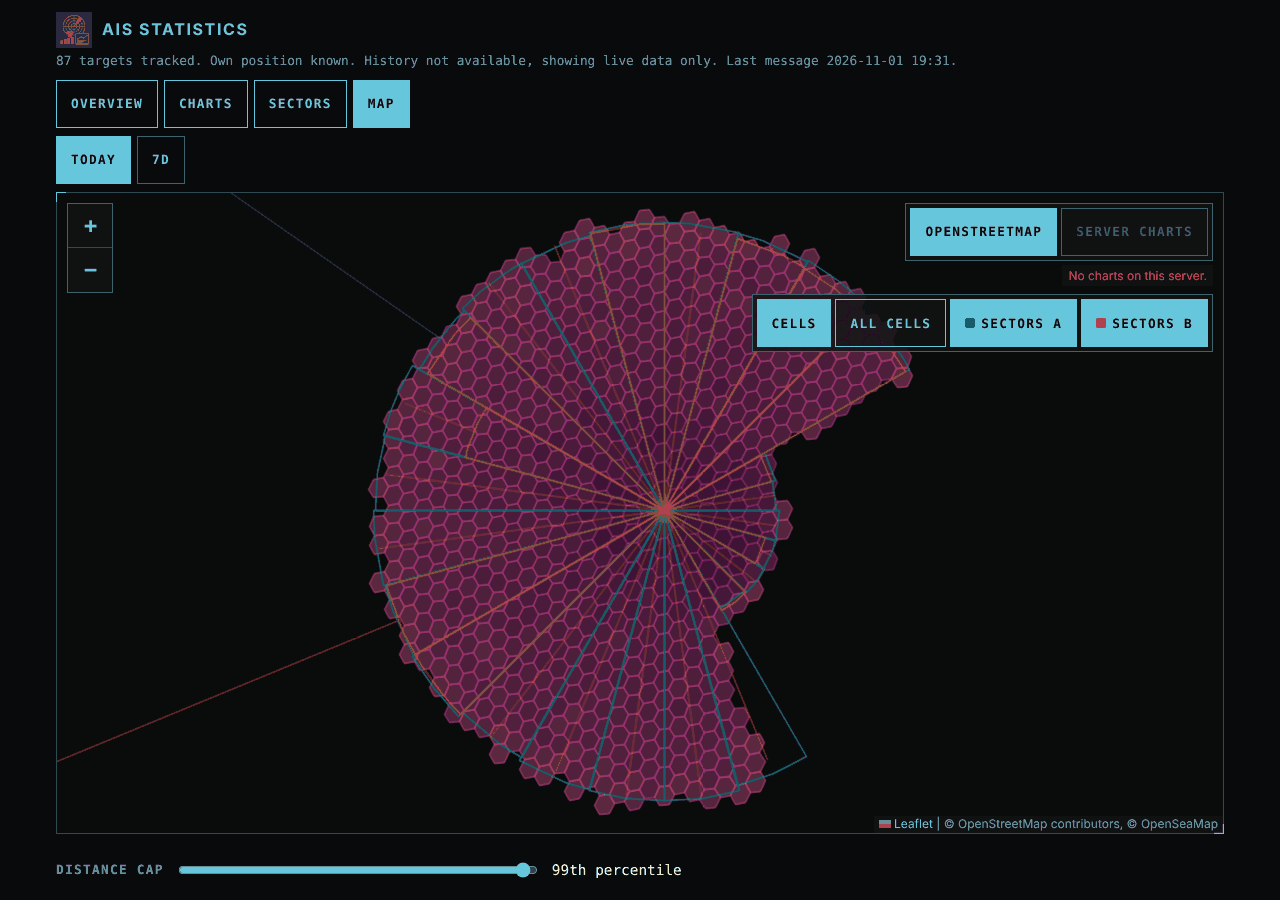
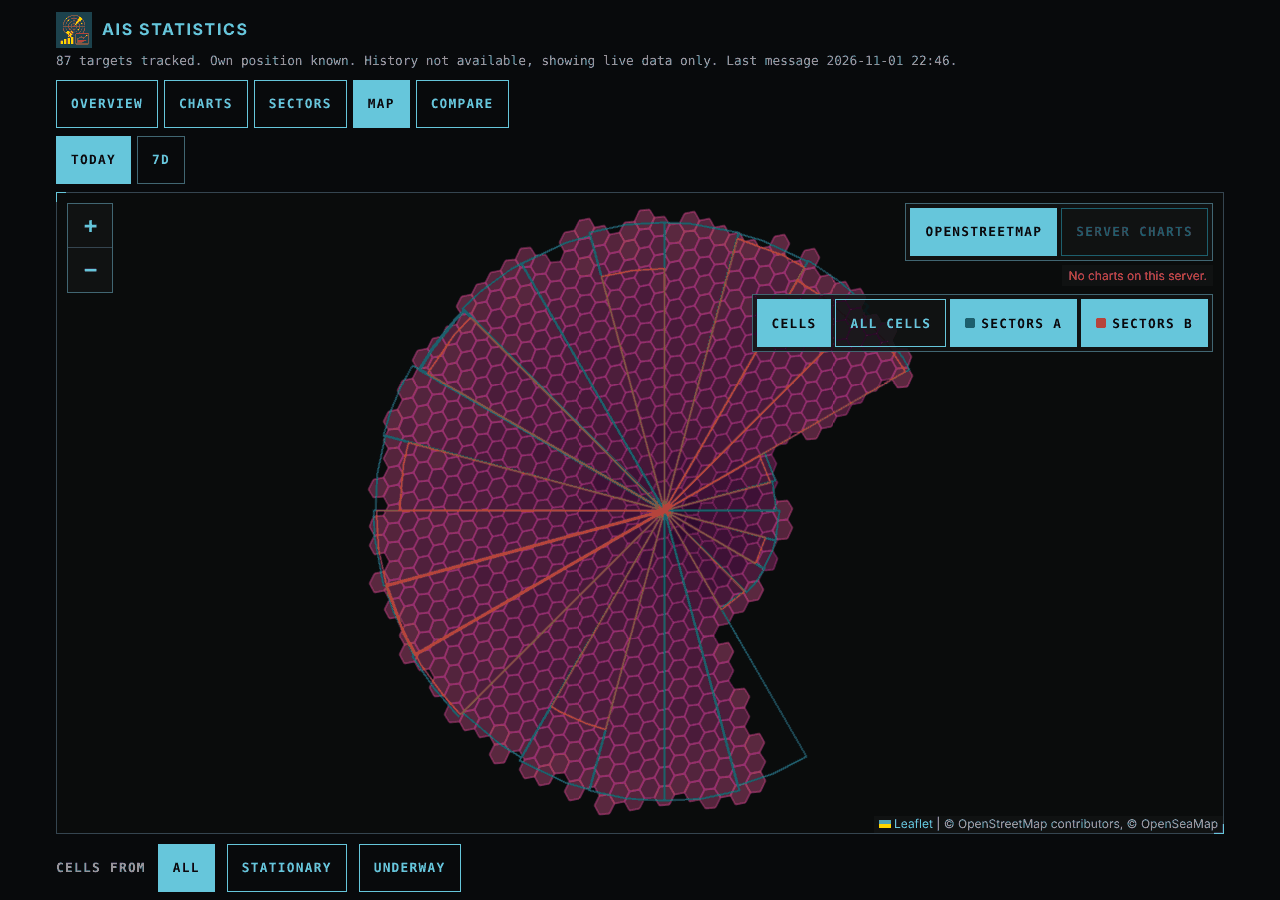
Document the farthest dot and refresh the sectors and map screenshots
SPEC 2.6, 6.3, 7 and 12, ARCHITECTURE 2.10 and 2.11, the README and the
changelog describe the dot and the bolder outline instead of the ticks.
The screenshots come from the synthetic timeline in scripts/screenshots.cjs.

diff --git a/web/static/style.css b/web/static/style.css
@@ -333,33 +333,23 @@ svg.sectors .axis {
 .wedge:hover {
   fill-opacity: 0.9;
 }
-.tick {
-  stroke-width: 1;
-  pointer-events: none;
+.wedge.farthest {
+  stroke: var(--sector);
+  stroke-opacity: 1;
+  stroke-width: 2;
 }
-.tick-dot {
+.farthest-dot {
   pointer-events: none;
   stroke-width: 0;
 }
-.tick.clipped {
-  stroke-dasharray: 3 2;
-}
-.tick.farthest {
-  stroke-width: 2.5;
-}
-/* Beyond the rim: a hollow dot where the tick stops. */
-.tick-dot.clipped {
+/* Beyond the rim: a hollow dot on the rim. */
+.farthest-dot.clipped {
   fill: var(--bg-panel);
   stroke-width: 1.5;
 }
 .dot-hit {
   fill: transparent;
   pointer-events: fill;
-}
-.tick-hit {
-  stroke: transparent;
-  stroke-width: 12;
-  pointer-events: stroke;
 }
 .long-range {
   overflow-x: auto;

diff --git a/SPEC.md b/SPEC.md
@@ -156,11 +156,10 @@ values), counting only hours with at least 20 reports in that sector. The
 sector's report count still includes every hour.
 
 Each hour bucket also keeps the farthest reception per sector and class and
-when it arrived. The sectors view draws it as a thin tick along the
-sector's centre line, from the centre out to a dot at that distance, in
-every sector with a reception, also when the farthest reception is at the
-wedge's edge (chosen by the maintainer). The tick of the chart's farthest
-reception is broader. So rare far receptions such as sporadic E or
+when it arrived. The sectors view outlines the sector holding the chart's
+farthest reception bolder and puts one small dot on its centre line at
+that distance; hovering any wedge shows its own farthest reception and
+time (chosen by the maintainer, replacing a tick per sector). So rare far receptions such as sporadic E or
 tropospheric ducting stay visible without moving the radius. The maximum is untrusted like every maximum (2.3).
 
 ### 2.7 Long-range log
@@ -515,15 +514,16 @@ button:
   plotter fetches with the user's credentials: H3 cell polygons for the last
   7 days (`kind: "cell"`, with `id`, a coverage `intensity` from 0 to 1 and
   the report count), plus the 24 hour sectors of class A and B as wedges
-  from the last known own position (`kind: "sector"`), and a line per
-  sector along its centre bearing from the wedge out to the farthest
-  reception (`kind: "sector-max"`, with `maxM` and its time). Each sector
+  from the last known own position (`kind: "sector"`), and per class one
+  point at the farthest reception, on its sector's centre bearing
+  (`kind: "sector-max"`, with `sector`, `maxM` and its time); that sector's
+  wedge carries `farthest: true`. Each sector
   feature carries its class in `cls` (`a` or `b`). A fill layer colours
   cells by `intensity` on a magenta to purple ramp, which contrasts with
   chart water and land, a line layer outlines each cell in the same ramp,
   another line layer outlines the sectors, teal for class A and orange for
-  class B as on the web app's sectors page, and a thin one draws the
-  maxima in the same class colours.
+  class B as on the web app's sectors page, bolder for the `farthest` one,
+  and a circle layer draws the farthest dots in the same class colours.
 - Live updates need a context that calls `overlay.refresh`, so the manifest
   also declares an optional `background.iframe` page,
   `/signalk-ais-statistics/plotterext/refresh.html` (part of the web app
@@ -559,10 +559,11 @@ A SignalK web app, listed in the admin UI, with:
   the paths; the 1h window shows a note instead. Weather values use the
   path's display unit, otherwise hPa for pressure, °C for temperature and
   percent for ratios.
-- Sectors: the 24-sector bearing view for class A and B (`#/sectors`), with a thin tick
-  per sector from the centre to a dot at its farthest reception, broader
-  for the chart's farthest (hover shows distance and time; a tick beyond
-  the scale stops at the rim, dashed, with a hollow dot), and below it a
+- Sectors: the 24-sector bearing view for class A and B (`#/sectors`), where the
+  sector with the chart's farthest reception is outlined bolder and has a
+  dot at that distance (hover shows distance and time; a dot beyond the
+  scale sits hollow on the rim, and hovering a wedge shows its farthest
+  reception too), and below it a
   table of the farthest receptions from the long-range log (2.7): time,
   distance, bearing, class, vessel name and MMSI, its position and the own
   position. Below that, the fastest vessels and the implausible jumps
@@ -820,7 +821,8 @@ help of `max` (6.2). Verified across a plugin restart on the test server.
 - **Far receptions as a tick and a log, not in the radius (chosen by the
   maintainer).** The 20 report minimum keeps rare far receptions out of
   the radius, but they can be real propagation worth seeing. The sectors
-  view draws the sector maximum as a thin tick with its time on hover, and the
+  view marks the chart's farthest reception with a dot and a bolder sector
+  outline, shows each sector's maximum and time on hover, and the
   long-range log keeps who sent each far position and where both stations
   were, which history cannot store. Cost: 48 more hourly paths and a small
   daily file. Rejected: publishing the time of the maximum as a path (an

diff --git a/ARCHITECTURE.md b/ARCHITECTURE.md
@@ -229,7 +229,8 @@ Registers a read-only `plotterExtensions` resource provider through
 plugin runs (the pattern `@meri-imperiumi/signalk-internet` uses). The
 MapLibre style is inline in the manifest; its GeoJSON source is the
 read-only route `/overlay/coverage.geojson`, built on request from Coverage
-and the class A and B sectors (`sector` wedges and `sector-max` lines,
+and the class A and B sectors (`sector` wedges and one `sector-max` point
+per class,
 each with its class in `cls`). A static background page in the web app bundle calls
 `overlay.refresh` hourly through the plotter extension bus (SPEC 6.3).
 Nothing is written into the package directory at run time.
@@ -263,8 +264,9 @@ so it is not stored, and the coverage downloads follow it. The distance cap slid
 `/coverage` with `cap` and, through `settings.ts`, saves with `POST
 /settings`; the save button shows when `/skServer/loginStatus`, read once
 per page load because the server rate limits it, reports security off or a
-readwrite or admin user. The sectors view draws the sector maxima as ticks with a wide invisible hover line,
-leaves a quarter more room on the scale for them, and lists `/longrange`
+readwrite or admin user. The sectors view (`sector-layout.ts` for the scale) outlines the sector with the
+chart's farthest reception bolder and puts a dot there with a wide invisible hover circle,
+leaves a quarter more room on the scale for it, and lists `/longrange`
 in tables: the farthest receptions, the fastest vessels and the
 implausible jumps. Plain `<a download>` links to the export routes (`downloads.ts`,
 URLs from `exportHref` in `api.ts`) sit under the map and the farthest

diff --git a/README.md b/README.md
@@ -14,8 +14,8 @@ server; the open points are in SPEC section 13.
 - Report how far your receiver reaches: average, median, p95, p99 and max
   distance, plus 24 bearing sectors per class. Percentiles keep the
   numbers meaningful when a bad position arrives.
-- Keep the far ones visible: a thin tick per sector reaches out to
-  its farthest reception, and a daily log lists the farthest receptions
+- Keep the far ones visible: the sector with the farthest reception is
+  outlined bolder and carries a dot at that distance, and a daily log lists the farthest receptions
   with time, vessel name and MMSI, and both positions, so a ducting or
   sporadic E event can be told from a wrong position.
 - Check message health: undecodable, incomplete and duplicate messages,

diff --git a/CHANGELOG.md b/CHANGELOG.md
@@ -38,6 +38,12 @@ uses [Semantic Versioning](https://semver.org/).
   Version 1 files still load, their cells counting as mode unknown (shown
   under All only). An older plugin version does not read version 2 files,
   so after a downgrade the coverage map starts empty for the retained days.
+- The farthest-reception ticks are gone from the sectors charts, the map
+  and the plotter overlay. Instead, the sector holding the farthest
+  reception of a chart (on the map and plotter, of a class) is outlined
+  bolder and has one small dot at that distance on its centre line.
+  Hovering a wedge on the sectors page shows its farthest reception and
+  time beside the p99. The p99 cap at the farthest reception stays.
 
 ## [0.5.0] - 2026-11-01
 
